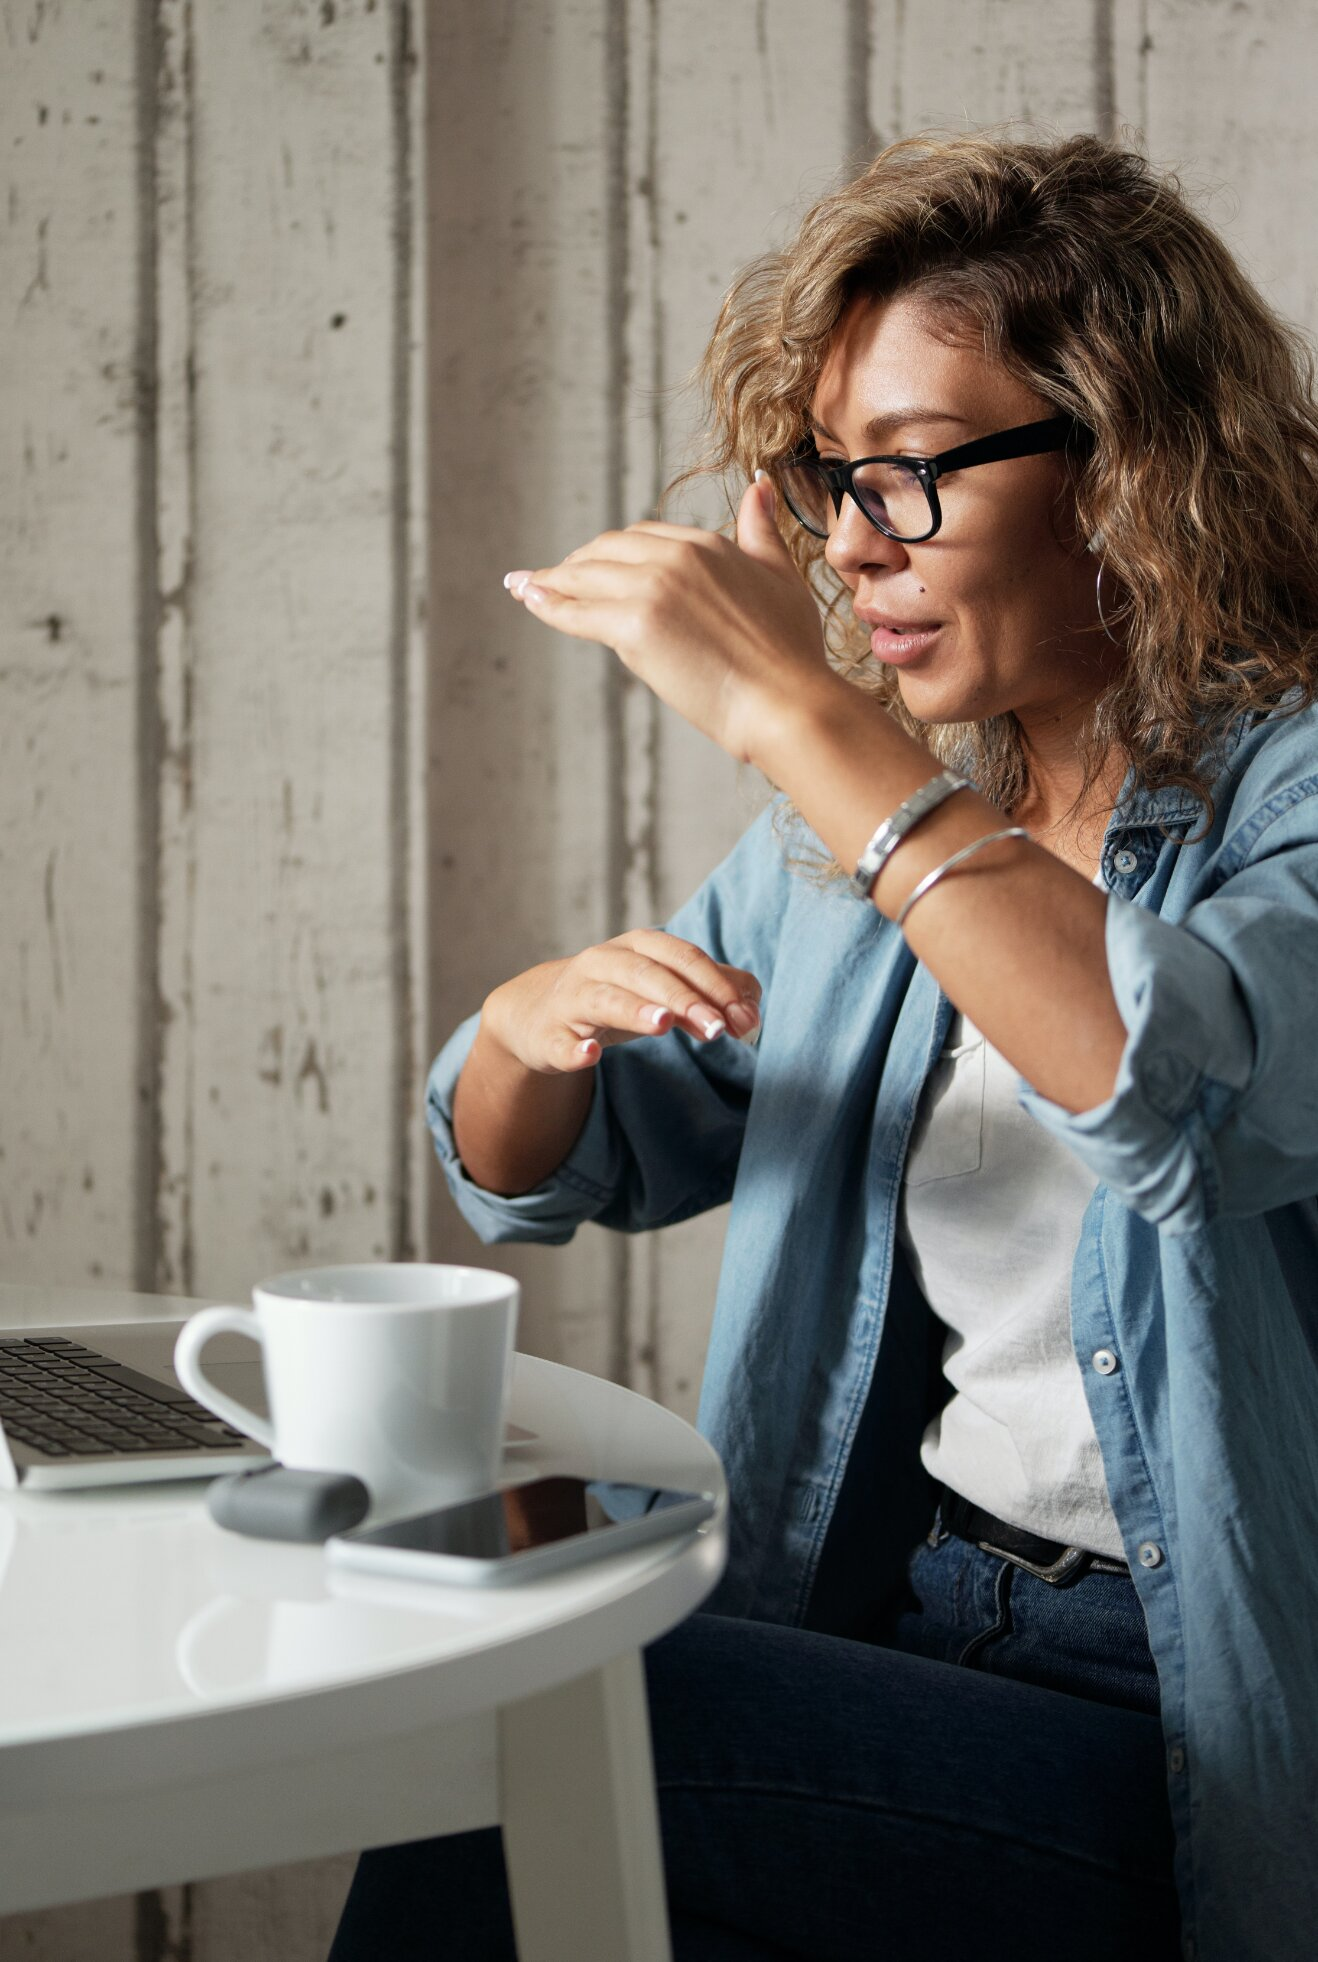
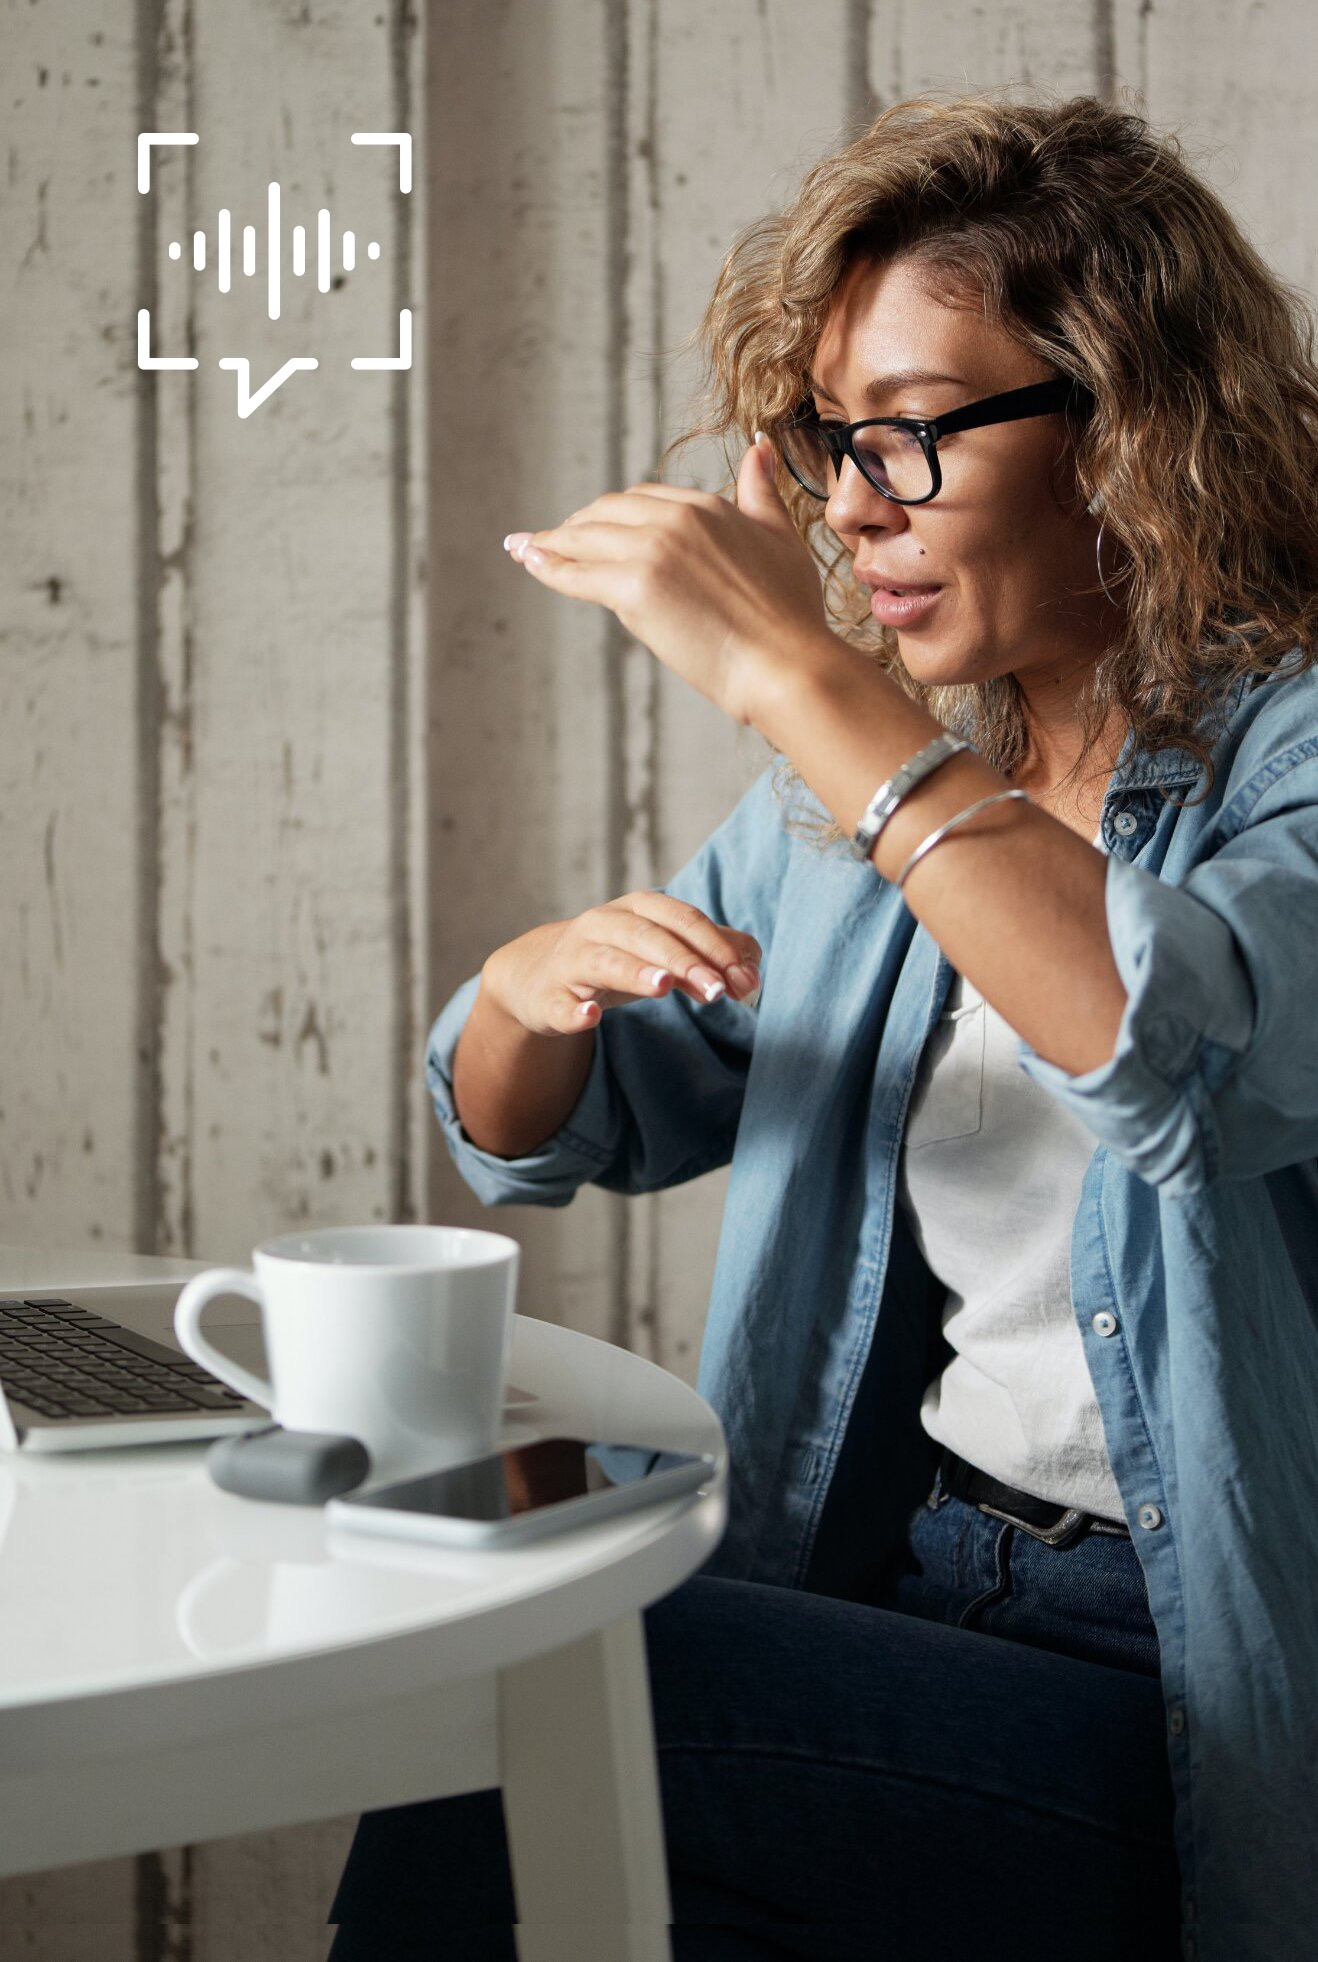
new images

diff --git a/resources/views/how-it-works.blade.php b/resources/views/how-it-works.blade.php
@@ -36,17 +36,17 @@
                     <h1 class="font-title text-5xl lg:text-6xl mb-10 lg:mb-20 text-black font-semibold leading-tight tracking-wide">How it Works</h1>
                 </div>
                 <div class="w-full lg:w-1/3 mt-8 lg:mt-0">
-                    <div class="mb-4 lg:mb-8"><img src="/images/read.svg"></div>
+                    <div class="mb-4 lg:mb-8 h-12"><img src="/images/read.svg"></div>
                     <h3 class="font-title font-bold mb-4 lg:mb-8 text-2xl lg:text-3xl">Read some reviews</h3>
                     <p class="text-black text-xl w-full lg:w-4/5">Browse our reviews for companies that interest you. You can upvote reviews that you find helpful.</p>
                 </div>
                  <div class="w-full lg:w-1/3 mt-8 lg:mt-0">
-                    <div class="mb-4 lg:mb-8"><img src="/images/write.svg"></div>
+                    <div class="mb-4 lg:mb-8 h-12"><img src="/images/write.svg"></div>
                     <h3 class="font-title font-bold mb-4 lg:mb-8 text-2xl lg:text-3xl">Share your story</h3>
                     <p class="text-black text-xl w-full lg:w-4/5">Review your company by answering 6 multiple-choice questions. After each one, add detail to tell us what’s driving your answers.</p>
                 </div>
                  <div class="w-full lg:w-1/3 mt-8 lg:mt-0">
-                    <div class="mb-4 lg:mb-8"><img src="/images/review.svg"></div>
+                    <div class="mb-4 lg:mb-8 h-12"><img src="/images/review.png"></div>
                     <h3 class="font-title font-bold mb-4 lg:mb-8 text-2xl lg:text-3xl">Spread the word</h3>
                     <p class="text-black text-xl w-full lg:w-4/5">Ask your friends to write a review. This is anti-racism in action, but it takes all of us.</p>
                 </div>

diff --git a/resources/views/components/header-one.blade.php b/resources/views/components/header-one.blade.php
@@ -6,6 +6,6 @@
     </div>
     <div class="w-full md:w-2/3 lg:w-1/2 relative  pt-12 md:pt-0">
         <img class="w-full top-0 -mb-16 md:pl-24 relative z-40" src="{{ $image }}" />
-        <img src="/images/logo-overlay.svg" class="absolute z-50 top-10 right-14">
+
     </div>
 </div>
